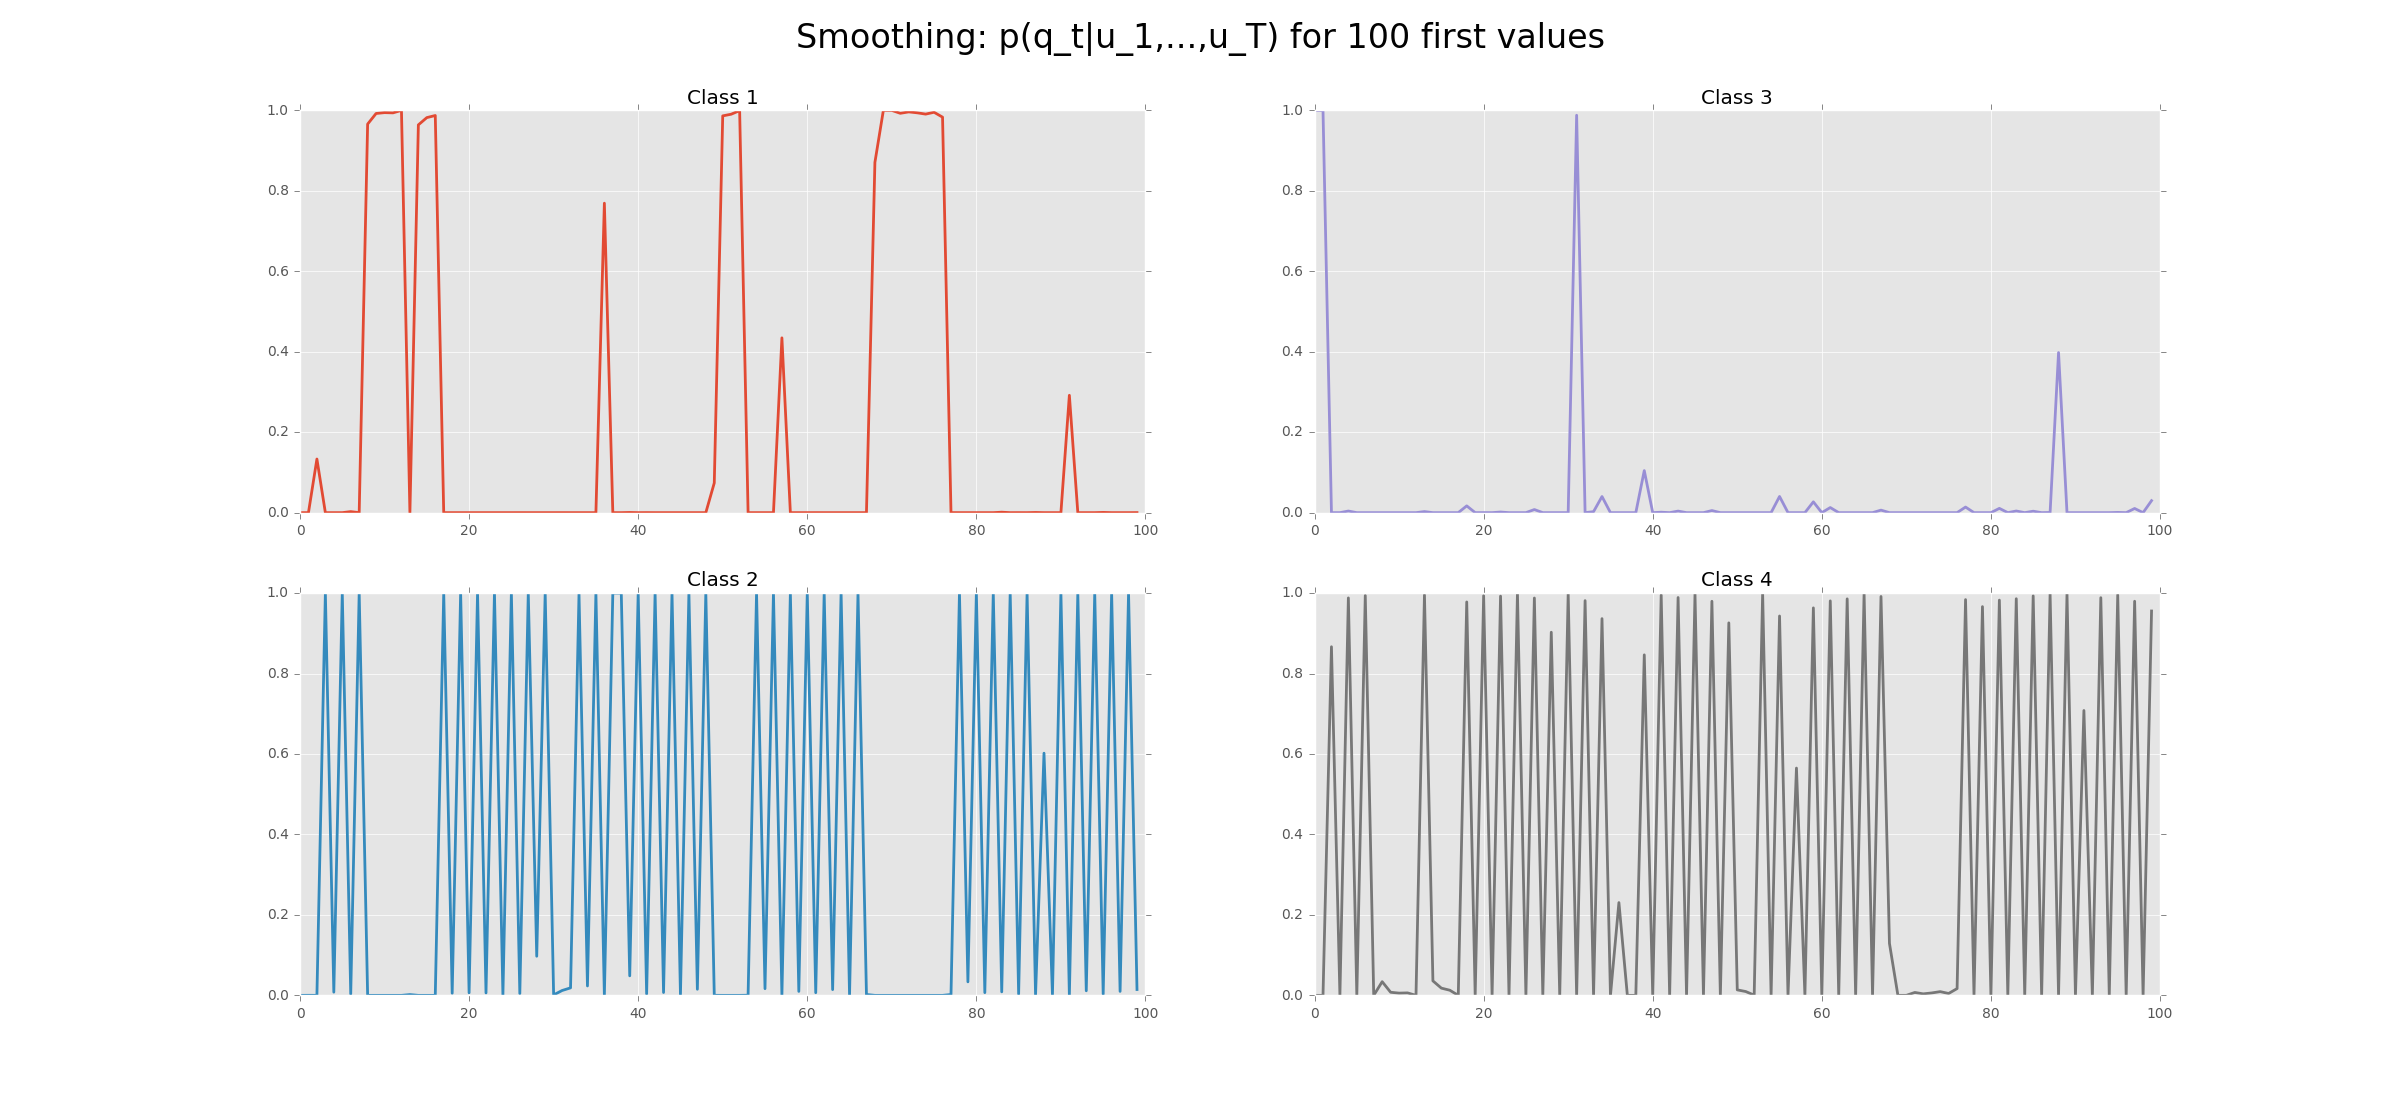
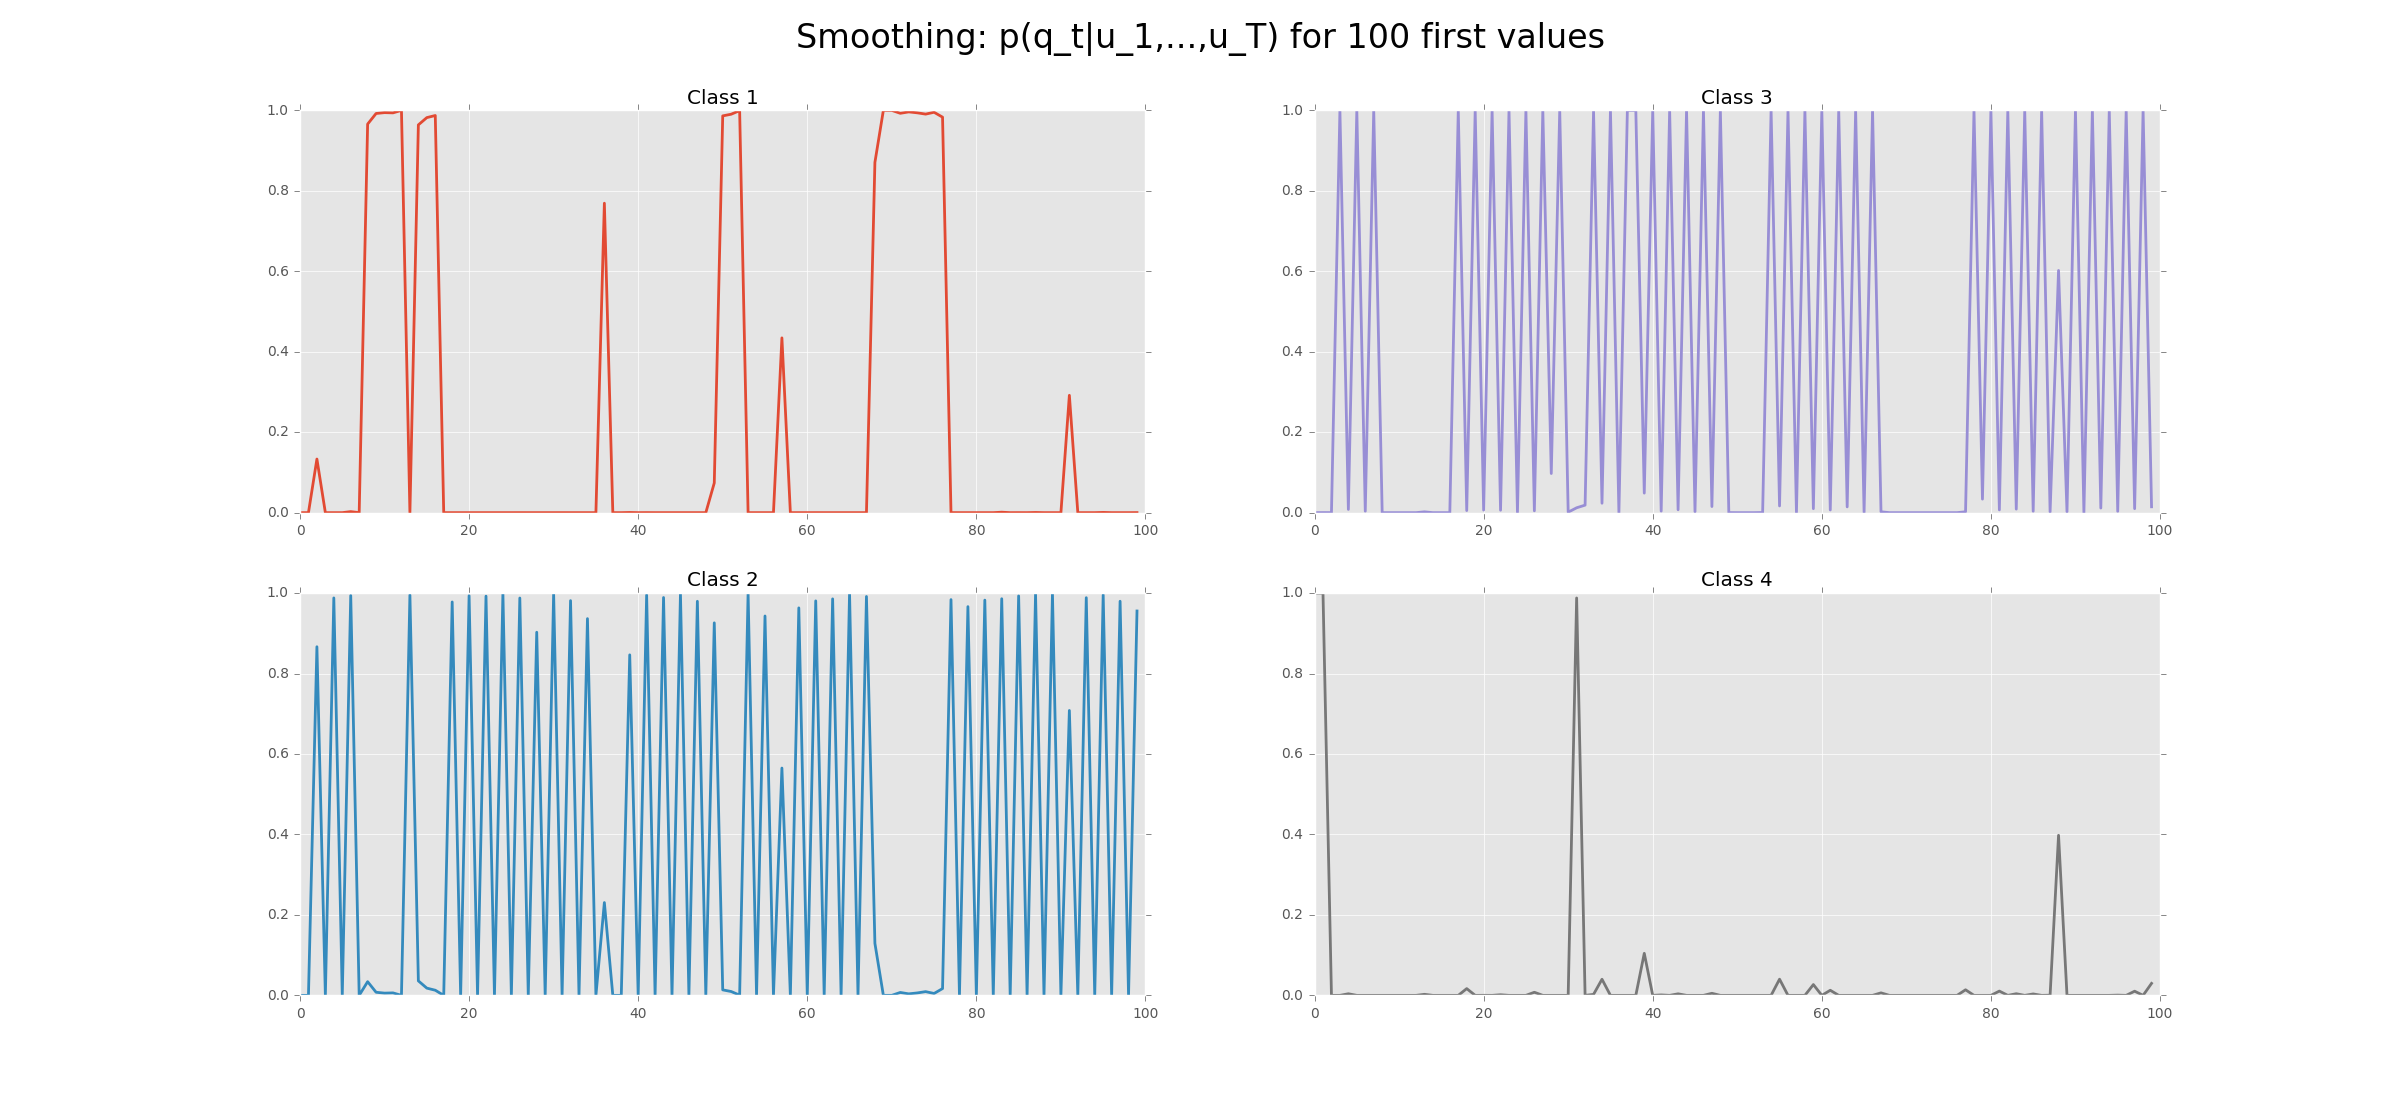
The end

diff --git a/HMM.py b/HMM.py
@@ -189,20 +189,20 @@ def viterbi(U,A,pi,mu,sigma):
 
     return q
 
-################################ MAIN ##############################################
+################################ MAIN ####################################################################
 
 if __name__ == "__main__":
 
-    # Plotting parameters
+    ## Plotting parameters
     plt.style.use("ggplot")
     all_colors = [parameter['color'] for parameter in plt.rcParams['axes.prop_cycle']]
 
 
-    #import the data files
+    ## import the data files
     train = np.loadtxt('data/EMGaussian.data')
     test = np.loadtxt('data/EMGaussian.test')
 
-    #center the data
+    ## center the data
     # scaler = preprocessing.StandardScaler().fit(train)
     # train = scaler.transform(train)
     # test = scaler.transform(test)
@@ -211,6 +211,7 @@ if __name__ == "__main__":
     V = test # npoints=500 x dim=2
     K = 4
 
+    ## initialization of the parameters
     (_,mus,sigmas,log_likelihood_gauss,log_likelihood_gauss_test,_) = em_gauss.em_gaussian(U, V, K)
 
     A = np.ones((K,K))*(1./6) + (1./3)*np.diag(np.ones(4)) # initialize A with 1/2 on diagonal and 1/6 otherwise
@@ -219,32 +220,35 @@ if __name__ == "__main__":
     T = 500
     epsilon = 1
 
-    # compute alpha and beta for all test data .. after similar preprocessing to train data
+    ## compute alpha and beta for all test data .. after similar preprocessing to train data
     logalpha = compute_logalpha(V, A, pis, mus, sigmas)
     logbeta = compute_logbeta(V, A, pis, mus, sigmas)
 
-    # smoothing proba
-    proba_smooting = smoothing(logbeta, logalpha)
-    # joint proba
-    joint_proba = compute_joint_prob(logbeta, logalpha, U, mus, sigmas)
+    ## smoothing proba
+    proba_smoothing = smoothing(logbeta, logalpha)
 
-    # plotting
-    proba_smooting_sample = proba_smooting[:100,:]
+    ## joint proba
+    joint_proba = compute_joint_prob(logbeta, logalpha, V, mus, sigmas)
+
+    ## plotting
+    proba_smoothing_sample = proba_smoothing[:100, :]
 
     f, axarr = plt.subplots(2, 2)
 
     for i in range(2):
         for j in range(2):
             k = i + 2*j
-            axarr[i, j].plot(proba_smooting_sample[:, k], color=all_colors[k], linewidth=2)
+            axarr[i, j].plot(proba_smoothing_sample[:, k], color=all_colors[k], linewidth=2)
             axarr[i, j].set_title("Class "+str(k+1))
             axarr[i, j].set_ylim([0,1.0])
     plt.suptitle("Smoothing: p(q_t|u_1,...,u_T) for 100 first values", size=24)
     plt.show()
 
+    ## EM algorithm
     A, pis, mus, sigmas, tau, log_likelihood, log_likelihood_test = em_hmm(U, V, K, A, pis, mus, sigmas)
-    print log_likelihood_gauss, log_likelihood_gauss_test
-    print log_likelihood[-1], log_likelihood_test[-1]
+    print "The log_likelihoods for both GMM and HMM are:"
+    print "GMM train: ", log_likelihood_gauss, " GMM test: ", log_likelihood_gauss_test
+    print "HMM train: ", log_likelihood[-1], " HMM test: ", log_likelihood_test[-1]
     plt.figure()
     plt.plot(log_likelihood, label="Train data")
     plt.plot(log_likelihood_test, label="Test data")
@@ -254,13 +258,45 @@ if __name__ == "__main__":
     plt.legend()
     plt.show()
 
-    #viterbi - most likely sequence
-    q = viterbi(U,A,pis,mus,sigmas)
-    print q
+    ## viterbi - most likely sequence
+    q_train = viterbi(U, A, pis, mus, sigmas)
 
-    #classification - qst 9 - classify test data
-    
+    fig, ax = plt.subplots()
+    markers = ['o', 's', 'D', '^']
+    for k in range(K):
+        # Train data
+        ax.scatter(U[q_train == k, 0], U[q_train == k, 1], marker=markers[k], color=all_colors[k], s=50, alpha=0.8)
+        ax.scatter(mus[k, 0], mus[k, 1], marker=markers[k], color='k', s=100)
+        ax.set_title("Clustering of the train data", size=24)
+    plt.show()
 
+    ## plot p(q_t | u_1,..., u_T)
+    logalpha = compute_logalpha(V, A, pis, mus, sigmas)
+    logbeta = compute_logbeta(V, A, pis, mus, sigmas)
+    proba_smoothing = smoothing(logbeta, logalpha)
+    proba_smoothing_sample = proba_smoothing[:100, :]
 
+    f, axarr = plt.subplots(2, 2)
 
+    for i in range(2):
+        for j in range(2):
+            k = i + 2*j
+            axarr[i, j].plot(proba_smoothing_sample[:, k], color=all_colors[k], linewidth=2)
+            axarr[i, j].set_title("Class "+str(k+1))
+            axarr[i, j].set_ylim([0,1.0])
+    plt.suptitle("Smoothing: p(q_t|u_1,...,u_T) for 100 first values", size=24)
+    plt.show()
 
+    ## Most likely state
+    states = np.argmax(proba_smoothing_sample, axis=1)
+    plt.plot(range(100), states + 1)
+    plt.ylim((0.9, 4.1))
+    plt.title("Most likely state for the first 100 samples", size=24)
+
+    ## viterbi for the test data
+    q_test = viterbi(V, A, pis, mus, sigmas)
+    plt.plot(range(100), q_test[:100] + 1)
+    plt.ylim((0.9, 4.1))
+    plt.title("Most likely state for the first 100 samples with Viterbi algorithm", size=24)
+
+    print "% of difference in states: ", np.sum(q_test[:100] != states)/100, '%'
